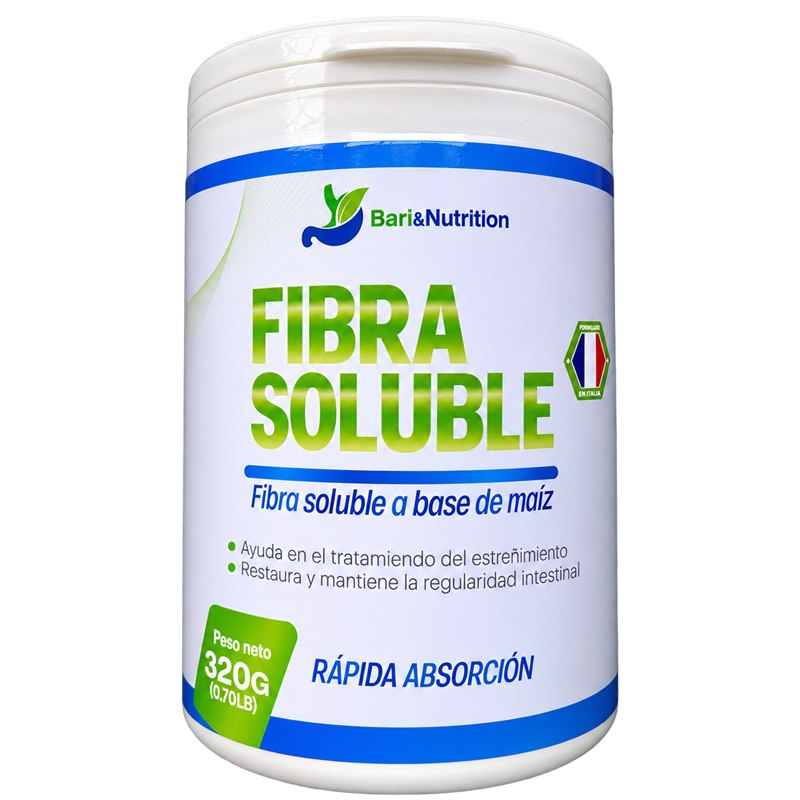
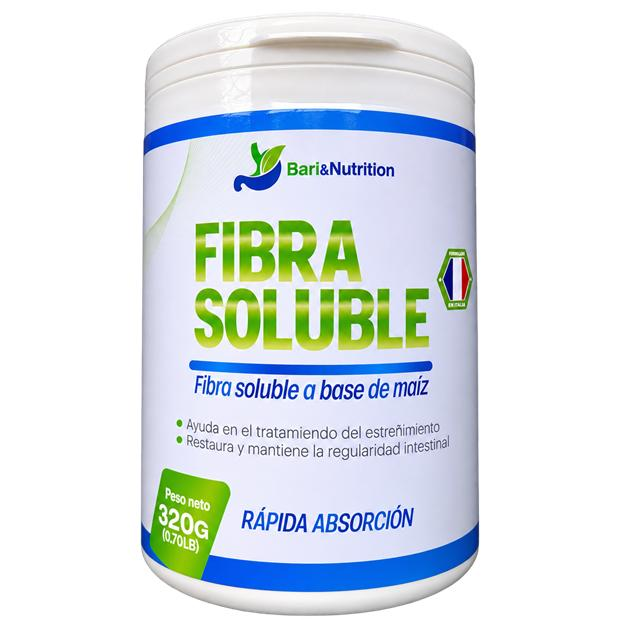
Catalogo: fotos 76% mas livianas, teclado y precios de una sola fuente
PESO: de 1592 KB a 377 KB al recorrer todo el catalogo
- Las 12 fotos se regeneraron desde el PNG original a 620px
  (antes venian de una segunda compresion sobre la anterior)
- Se generaron 17 WebP (318 KB en total, la mitad que en JPG) y
  se sirven con <picture>; el JPG queda de respaldo para
  celulares viejos que no soportan WebP
- Las 3 fotos de oferta pesaban 650 KB entre las tres

TECLADO: al escribir la direccion, el teclado tapaba el campo.
Ahora la ventana del pedido se despega del centro, se pega
arriba y se encoge al alto que queda visible (visualViewport),
y el campo se centra solo dentro de ella

PRECIOS: el catalogo ya no tiene su propia lista de precios.
Los lee de zb-catalogo.js, el mismo archivo de la tienda, por id
(IDS_TIENDA / IDS_OFERTAS). Si ese archivo no cargara, quedan
los precios escritos como respaldo y la pagina no se rompe

Claude-Session: https://claude.ai/code/session_01FkBJYdQMNmidQkmV7MyqdX

diff --git a/catalogo.html b/catalogo.html
@@ -132,6 +132,7 @@ body.bloqueado .btn-arriba { display:none; }
   overflow:hidden; box-shadow:var(--sombra); display:flex; flex-direction:column;
 }
 .foto { position:relative; aspect-ratio:4 / 3; background:var(--blanco); border-bottom:1px solid var(--borde); }
+.foto picture { display:block; width:100%; height:100%; }
 .foto img { width:100%; height:100%; object-fit:contain; padding:12px; }
 .sello {
   position:absolute; top:12px; left:12px; padding:6px 12px; border-radius:var(--pill);
@@ -180,6 +181,7 @@ body.bloqueado .btn-arriba { display:none; }
 .carrusel { display:flex; overflow-x:auto; scroll-snap-type:x mandatory; scrollbar-width:none; }
 .carrusel::-webkit-scrollbar { display:none; }
 .carrusel figure { flex:0 0 100%; scroll-snap-align:center; padding:12px; }
+.carrusel picture { display:block; }
 .carrusel img { width:100%; height:auto; max-height:40vh; object-fit:contain; border-radius:var(--radio-sm); }
 .carrusel figcaption { text-align:center; font-size:var(--fs-xs); font-weight:700; color:var(--texto-3);
   text-transform:uppercase; letter-spacing:.06em; padding-top:8px; }
@@ -251,7 +253,8 @@ body.bloqueado .flotante { display:none; } /* con la ventana abierta estorba */
   padding:var(--lado); padding-bottom:calc(var(--lado) + env(safe-area-inset-bottom)); }
 .panel-lista { display:grid; gap:12px; margin-bottom:16px; }
 .linea { background:var(--blanco); border:1px solid var(--borde); border-radius:var(--radio-sm); padding:12px; display:flex; gap:12px; }
-.linea img { width:64px; height:64px; object-fit:contain; flex-shrink:0; }
+.linea picture { flex-shrink:0; }
+.linea img { width:64px; height:64px; object-fit:contain; }
 .linea-datos { flex:1; min-width:0; }
 .linea-nombre { font-size:var(--fs-sm); font-weight:700; line-height:1.3; }
 .linea-precio { font-size:var(--fs-sm); color:var(--texto-2); margin-top:2px; }
@@ -514,6 +517,9 @@ footer p { font-size:var(--fs-xs); color:var(--texto-3); }
   </div>
 </section>
 
+<!-- Catálogo de la tienda: de aquí salen los PRECIOS, para que
+     no existan dos listas de precios que se desincronicen. -->
+<script src="zb-catalogo.js"></script>
 <script>
 /* =========================================================
    PRODUCTOS
@@ -564,6 +570,35 @@ const P = {
     foto:"img/cat-fibra.jpg", tabla:"img/tn-fibra.jpg", chips:["320 g","A base de maíz","Sin azúcar"] }
 };
 
+/* =========================================================
+   LOS PRECIOS LOS MANDA LA TIENDA
+   ---------------------------------------------------------
+   Cada producto de aquí apunta a su id en zb-catalogo.js, que
+   es el archivo que usa la tienda. Si allá cambia un precio,
+   aquí cambia solo. El precio escrito arriba queda como
+   respaldo por si ese archivo no carga.
+   ========================================================= */
+const IDS_TIENDA = {
+  liquidaFresa:"bi3", liquidaMaracumango:"bi4", wheyVainilla:"bi1", wheyChocolate:"bi2",
+  isolate:"nf1", multivit:"bi7", b12:"bi8", hierro:"bi6", biotina:"bi5",
+  bfBayas:"bf2", bfTropical:"bf1", colageno:"bi10", fibra:"bi9"
+};
+const IDS_OFERTAS = ["oferta1", "oferta2", "oferta3", "oferta4"];
+
+(function sincronizarPrecios() {
+  const lista = window.ZB_CATALOGO;
+  if (!lista || !lista.length) { console.warn("No cargó zb-catalogo.js: se usan los precios de respaldo"); return; }
+  const tienda = {};
+  lista.forEach(p => { tienda[p.id] = p; });
+  const sueltos = [];
+  Object.keys(IDS_TIENDA).forEach(clave => {
+    const p = tienda[IDS_TIENDA[clave]];
+    if (p && typeof p.precio === "number") P[clave].precio = p.precio;
+    else sueltos.push(clave);
+  });
+  if (sueltos.length) console.warn("Sin precio en la tienda: " + sueltos.join(", "));
+})();
+
 /* Qué producto va en cada sección (un mismo producto puede repetirse) */
 const CATALOGO = {
   proteinas: ["liquidaFresa","liquidaMaracumango","wheyVainilla","wheyChocolate","isolate"],
@@ -595,6 +630,18 @@ const OFERTAS_X2 = [
 
 /* Descuento por cantidad — mismos tramos que la tienda */
 const DESCUENTO_BN = [ { min:4, desc:40 }, { min:3, desc:25 }, { min:2, desc:15 } ];
+
+/* El precio de cada oferta x2 también lo manda la tienda */
+(function sincronizarOfertas() {
+  const lista = window.ZB_CATALOGO;
+  if (!lista || !lista.length) return;
+  const tienda = {};
+  lista.forEach(p => { tienda[p.id] = p; });
+  OFERTAS_X2.forEach((of, i) => {
+    const p = tienda[IDS_OFERTAS[i]];
+    if (p && typeof p.precio === "number") of.precioPar = p.precio;
+  });
+})();
 
 /* Busca si un producto tiene oferta por llevar 2 (para avisarlo en su tarjeta) */
 function ofertaDe(id) { return OFERTAS_X2.find(o => o.ids.includes(id)); }
@@ -719,6 +766,15 @@ function refrescar(id) {
 }
 
 /* ---------- TARJETAS ---------- */
+/* Las fotos se sirven en WebP (pesan la mitad) con el JPG de
+   respaldo para celulares viejos que no lo soportan. Si el .webp
+   no existiera, el navegador usa el .jpg sin romper nada. */
+function imagenHTML(src, alt, extra) {
+  const webp = src.replace(/.jpg$/, ".webp");
+  return '<picture><source srcset="' + esc(webp) + '" type="image/webp">' +
+    '<img src="' + esc(src) + '" alt="' + esc(alt) + '" ' + (extra || "") + '></picture>';
+}
+
 function acciones(id) {
   const n = cot[id] || 0;
   if (!n) return '<button class="btn-agregar" type="button" data-mas="' + id + '">' +
@@ -747,7 +803,7 @@ function tarjeta(id) {
   const tabla = '<button type="button" class="ver-ficha" data-tabla="' + id + '">' +
     '<svg class="icono"><use href="#i-lupa"/></svg>Ver detalle</button>';
   return '<article class="tarjeta" data-id="' + id + '">' +
-    '<div class="foto"><img src="' + esc(p.foto) + '" alt="' + esc(p.nombre) + '" loading="lazy" width="400" height="300">' + sello + '</div>' +
+    '<div class="foto">' + imagenHTML(p.foto, p.nombre, 'loading="lazy" decoding="async" width="520" height="520"') + sello + '</div>' +
     '<div class="info">' +
       '<div class="marca">' + esc(p.marca) + '</div>' +
       '<h3 class="nombre">' + esc(p.nombre) + '</h3>' +
@@ -767,7 +823,7 @@ function tarjetaOferta(i) {
     : "";
   return `<article class="tarjeta oferta">
     <div class="cinta">Ahorras ${soles(antes - of.precioPar)}</div>
-    <div class="foto"><img src="${esc(of.foto)}" alt="${esc(of.nombre)}" loading="lazy" width="400" height="300"></div>
+    <div class="foto">${imagenHTML(of.foto, of.nombre, 'loading="lazy" decoding="async"')}</div>
     <div class="info">
       <h3 class="nombre">${esc(of.nombre)}</h3>
       <div class="precios"><span class="precio">${soles(of.precioPar)}</span><span class="antes">Antes ${soles(antes)}</span></div>
@@ -839,7 +895,7 @@ function pintarPanel() {
   lista.innerHTML = ids.map(id => {
     const p = P[id];
     return '<div class="linea">' +
-      '<img src="' + esc(p.foto) + '" alt="" width="64" height="64">' +
+      imagenHTML(p.foto, "", 'width="64" height="64" loading="lazy"') +
       '<div class="linea-datos">' +
         '<div class="linea-nombre">' + esc(p.nombre) + '</div>' +
         '<div class="linea-precio">' + soles(p.precio) + ' c/u</div>' +
@@ -923,6 +979,36 @@ function anotar() {
 }
 inpZona.addEventListener("input", anotar);
 inpNombre.addEventListener("input", anotar);
+
+/* Al escribir, el teclado del celular tapa la mitad de abajo.
+   Dos cosas lo evitan: la ventana se encoge a lo que queda
+   visible, y el campo se centra dentro de ella. */
+[inpZona, inpNombre].forEach(campo => {
+  campo.addEventListener("focus", () => {
+    setTimeout(() => campo.scrollIntoView({ block: "center", behavior: "smooth" }), 350);
+  });
+});
+/* Con el teclado abierto la ventana util se parte a la mitad. La
+   ventana deja de estar centrada y se pega arriba, que es la zona
+   que sigue viendose, y se encoge a ese alto. */
+function ajustarPorTeclado() {
+  const vv = window.visualViewport;
+  if (!vv || panel.hidden) return;
+  const hayTeclado = vv.height < window.innerHeight * 0.75;
+  if (hayTeclado) {
+    panel.style.top = "8px";
+    panel.style.transform = "translateX(-50%)";
+    panel.style.maxHeight = Math.round(vv.height - 16) + "px";
+  } else {
+    panel.style.top = "";
+    panel.style.transform = "";
+    panel.style.maxHeight = "";
+  }
+}
+if (window.visualViewport) {
+  window.visualViewport.addEventListener("resize", ajustarPorTeclado);
+  window.visualViewport.addEventListener("scroll", ajustarPorTeclado);
+}
 document.querySelectorAll(".opcion").forEach(b => {
   b.addEventListener("click", () => elegirZona(b.dataset.zona, b.dataset.zona !== datos.tipo));
 });
@@ -936,7 +1022,7 @@ function pintarTodo() { pintarCatalogo(); pintarPanel(); pintarFlotante(); }
 /* ---------- Abrir y cerrar el panel ---------- */
 const panel = document.getElementById("panel"), fondo = document.getElementById("fondoPanel");
 function abrir() { pintarPanel(); panel.hidden = false; fondo.hidden = false; document.body.classList.add("bloqueado"); }
-function cerrar() { panel.hidden = true; fondo.hidden = true; document.body.classList.remove("bloqueado"); }
+function cerrar() { panel.style.top = ""; panel.style.transform = ""; panel.style.maxHeight = ""; panel.hidden = true; fondo.hidden = true; document.body.classList.remove("bloqueado"); }
 document.getElementById("btnFlotante").addEventListener("click", abrir);
 document.getElementById("btnCerrar").addEventListener("click", cerrar);
 document.getElementById("btnLimpiar").addEventListener("click", limpiar);
@@ -960,7 +1046,8 @@ function abrirTabla(id) {
   document.getElementById("visorTitulo").textContent = p.nombre;
   document.getElementById("visorImg").innerHTML =
     '<div class="carrusel" id="carrusel">' +
-      fotos.map(f => '<figure><img src="' + esc(f.src) + '" alt="' + esc(p.nombre) + '">' +
+      fotos.map(f => '<figure>' +
+        (f.pie === "Producto" ? imagenHTML(f.src, p.nombre, "") : '<img src="' + esc(f.src) + '" alt="Tabla nutricional de ' + esc(p.nombre) + '">') +
         '<figcaption>' + f.pie + '</figcaption></figure>').join("") +
     '</div>' +
     (fotos.length > 1
